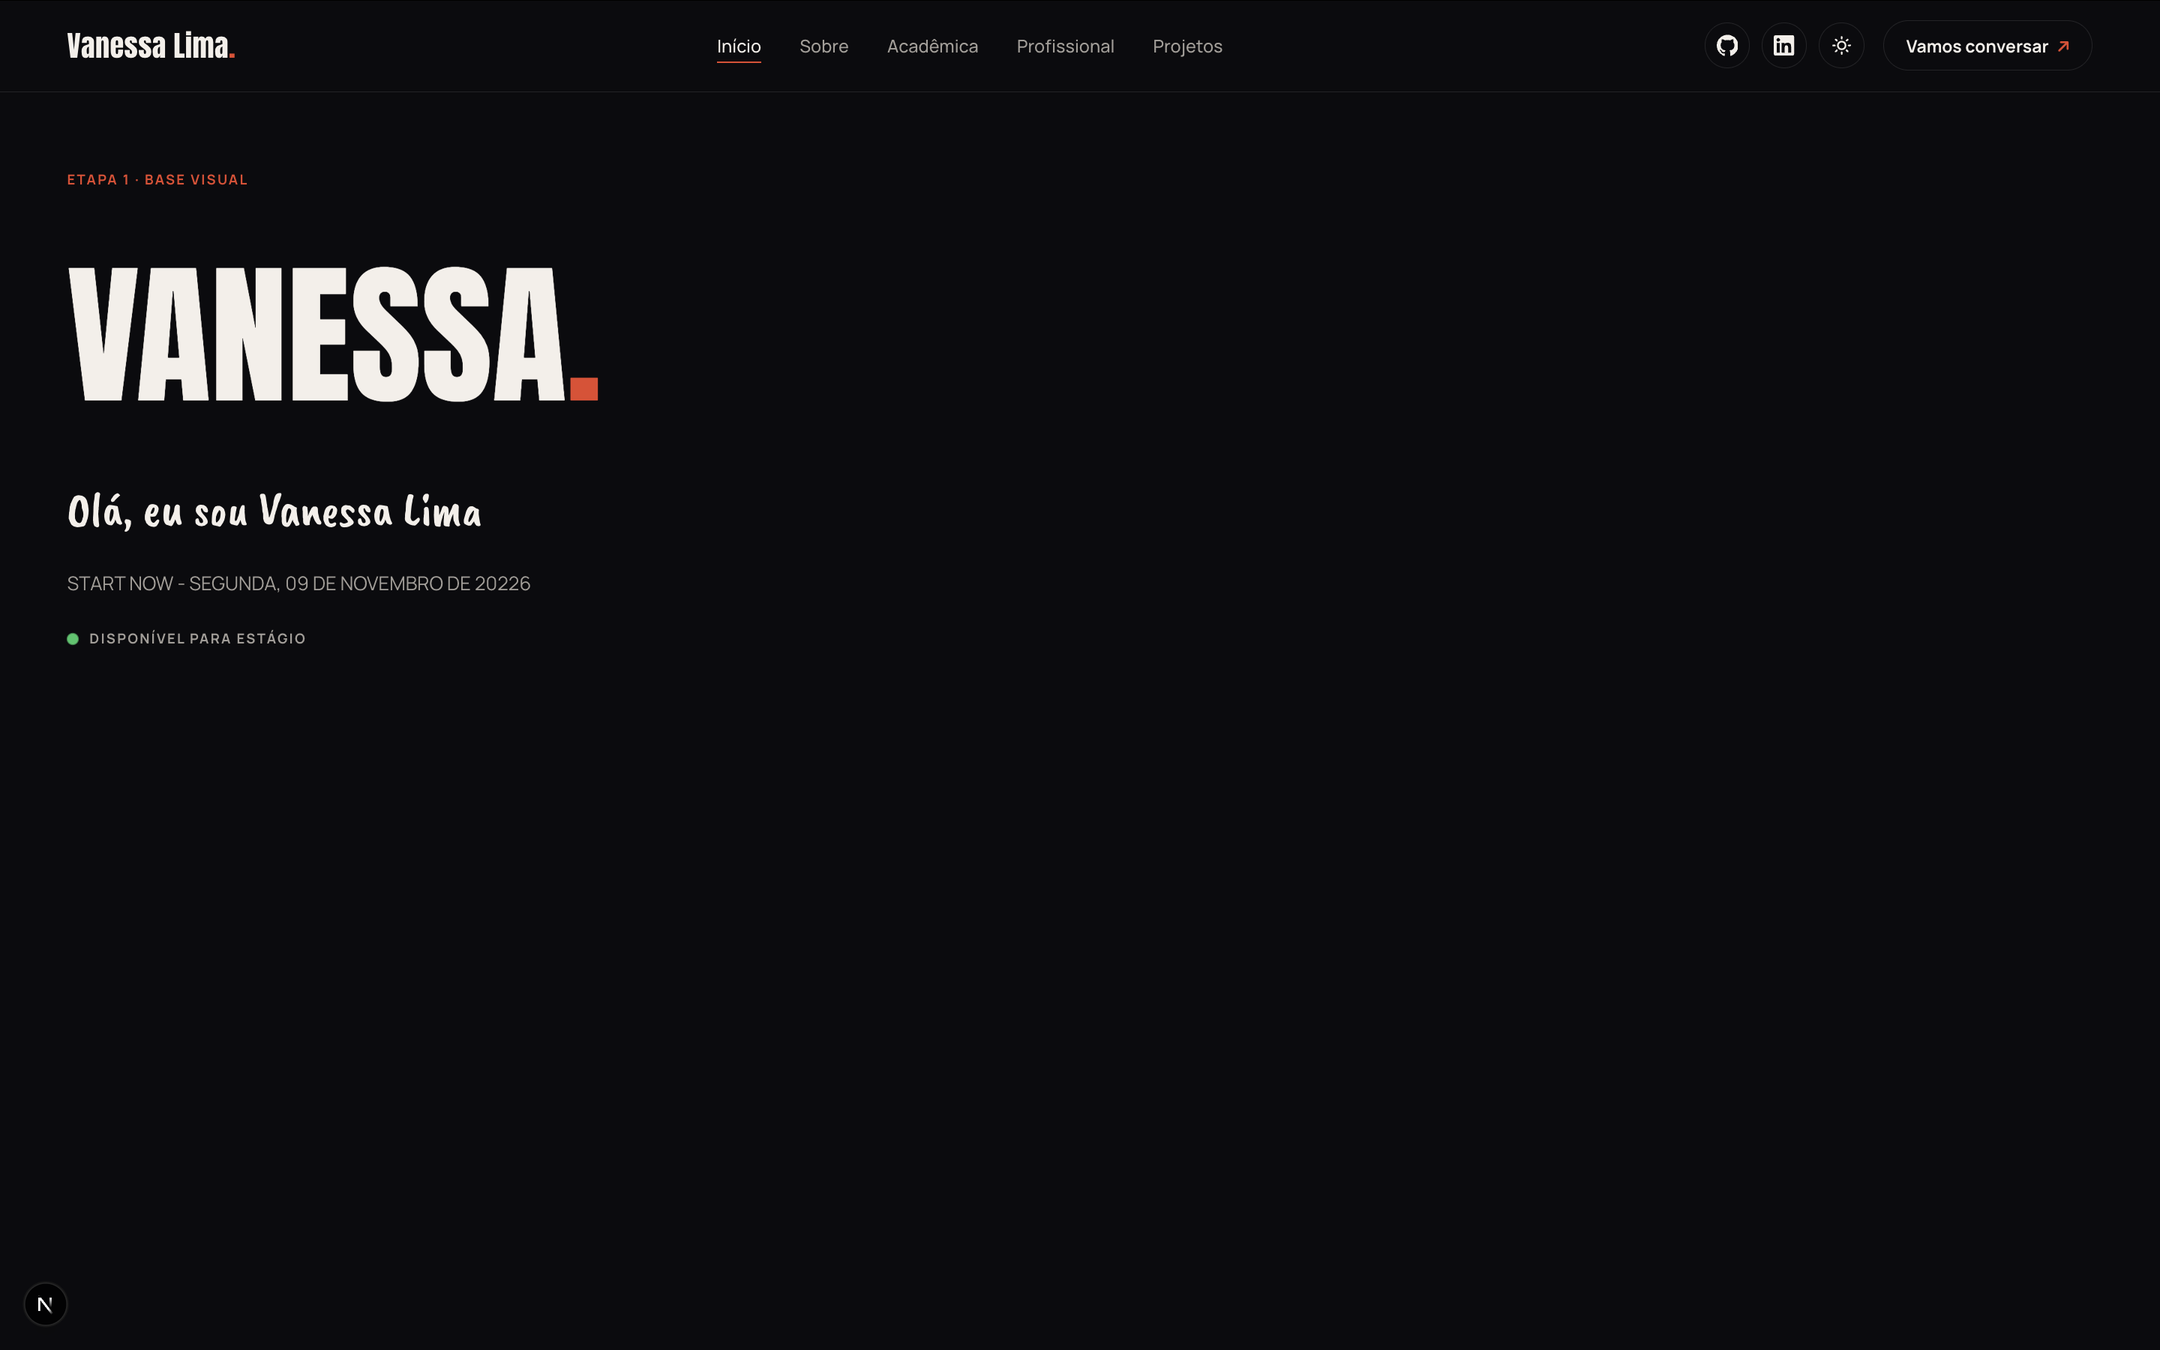
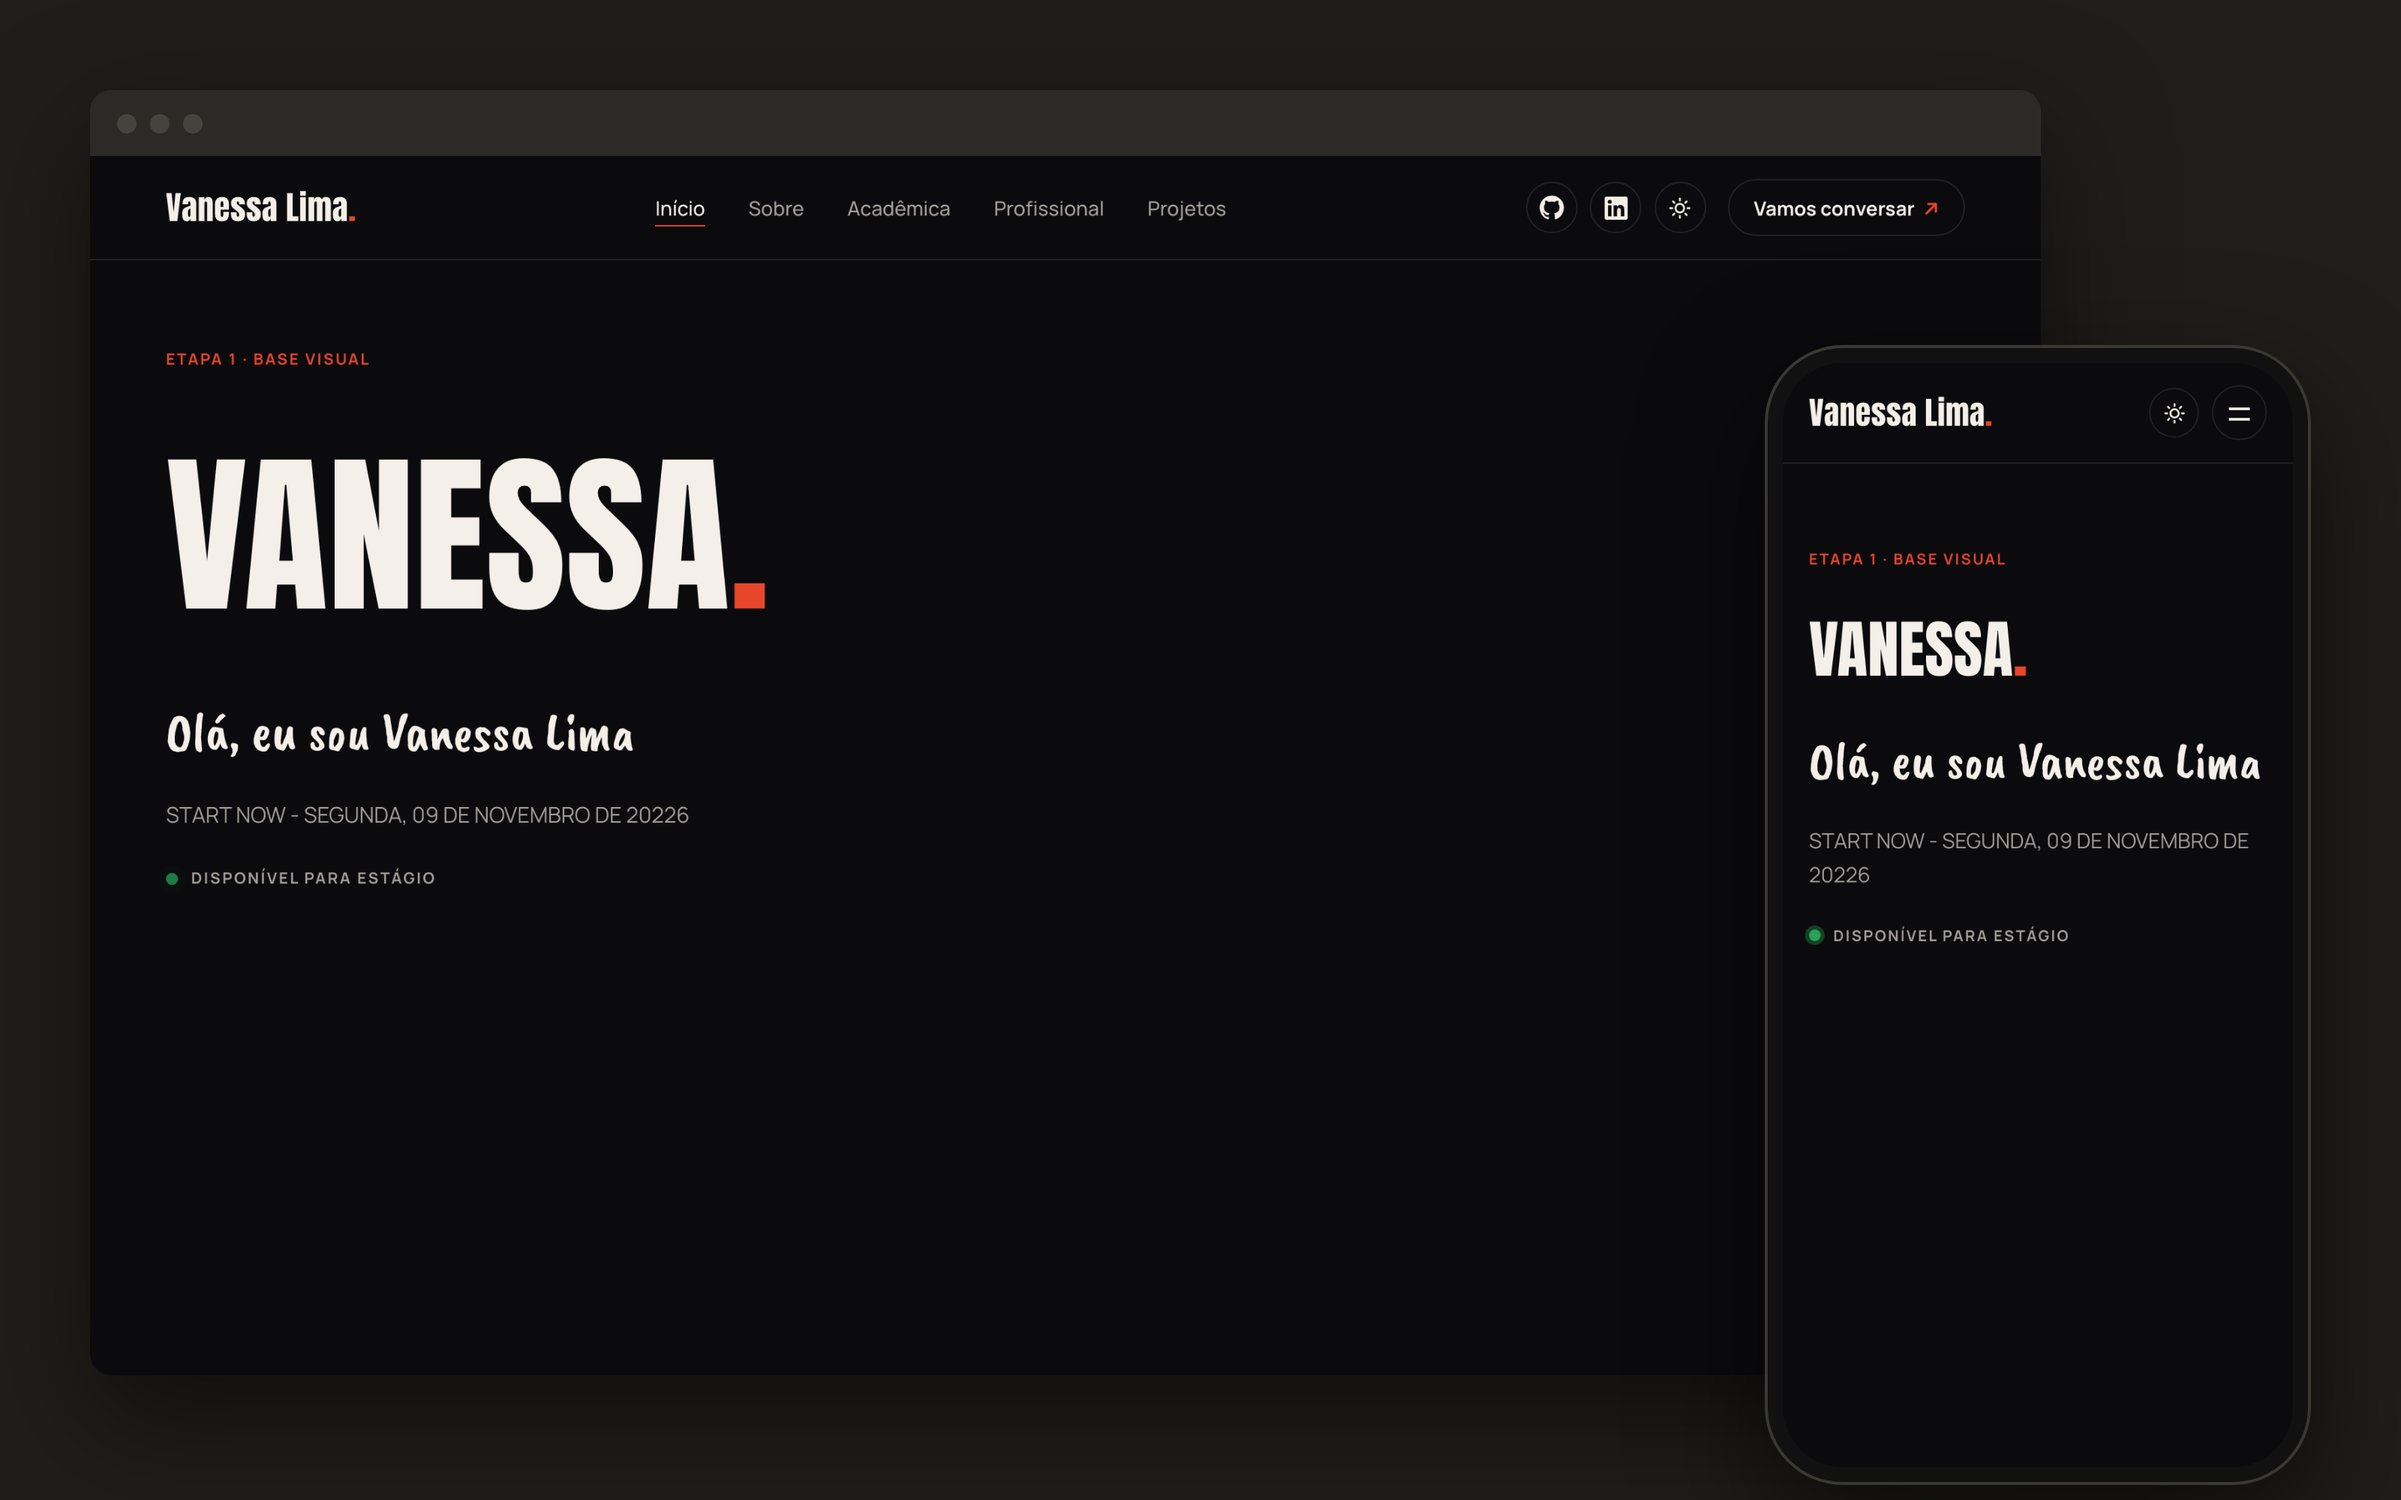
chore: adiciona script de mockup desktop + mobile para o diário

diff --git a/docs/DIARIO.md b/docs/DIARIO.md
@@ -36,5 +36,4 @@ Criei o projeto com o comando oficial do Next.js (`create-next-app`), em JavaScr
 - `useState` guarda se o menu está aberto; `useEffect` trava a rolagem e escuta a tecla Esc.
 - Segurança: links externos com `rel="noopener noreferrer"`.
 
-![Navbar no computador](progresso/2026-11-10-etapa-02-navbar.png)
-![Menu aberto no celular](progresso/2026-11-10-etapa-02-menu-celular.png)
+![Navbar no computador e no celular](progresso/2026-11-10-etapa-02-navbar.png)
